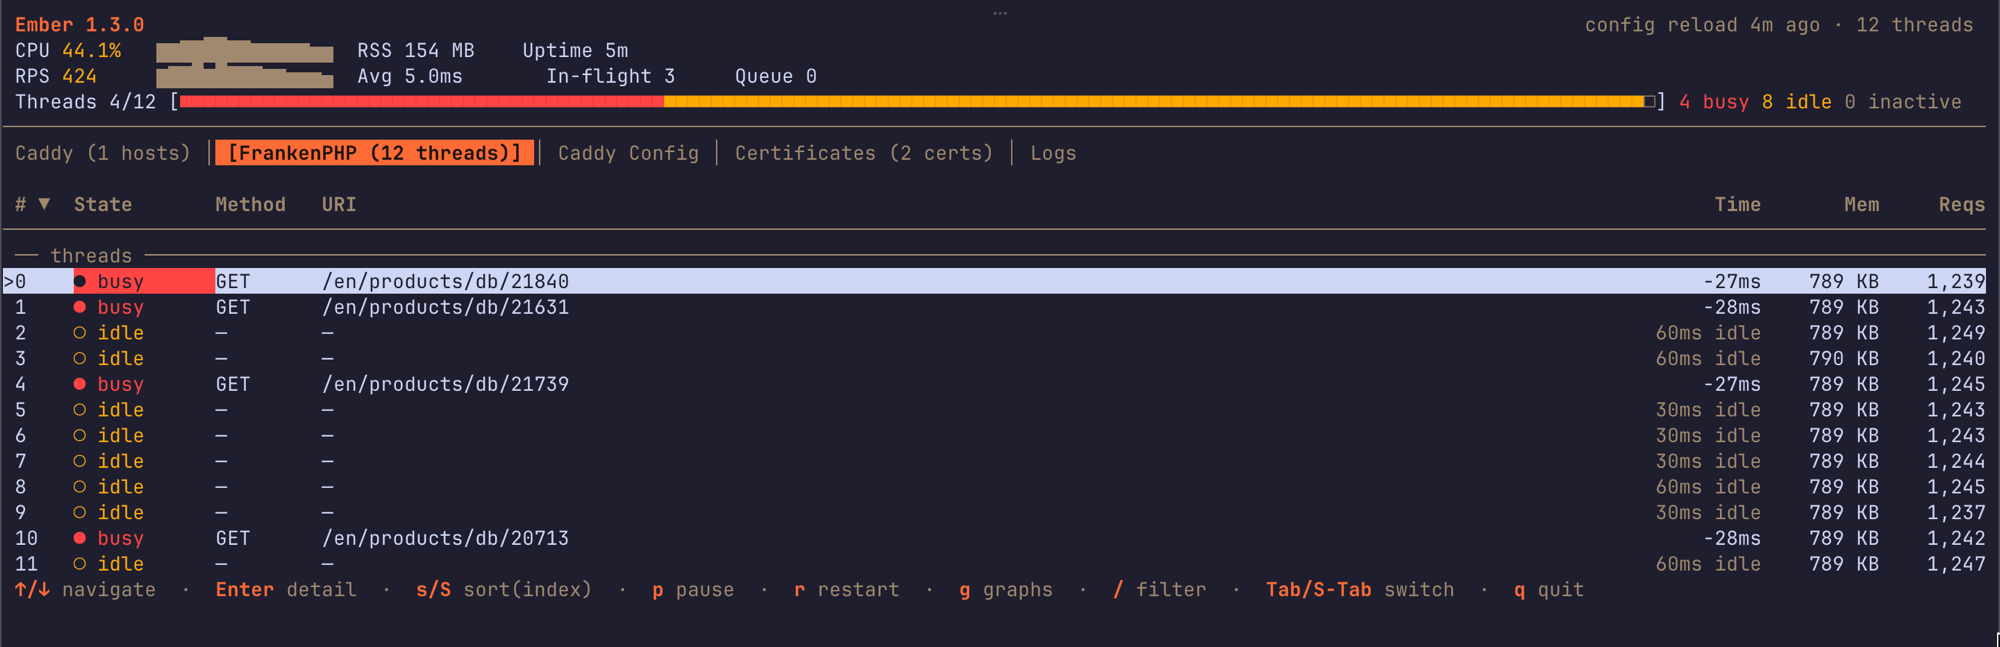
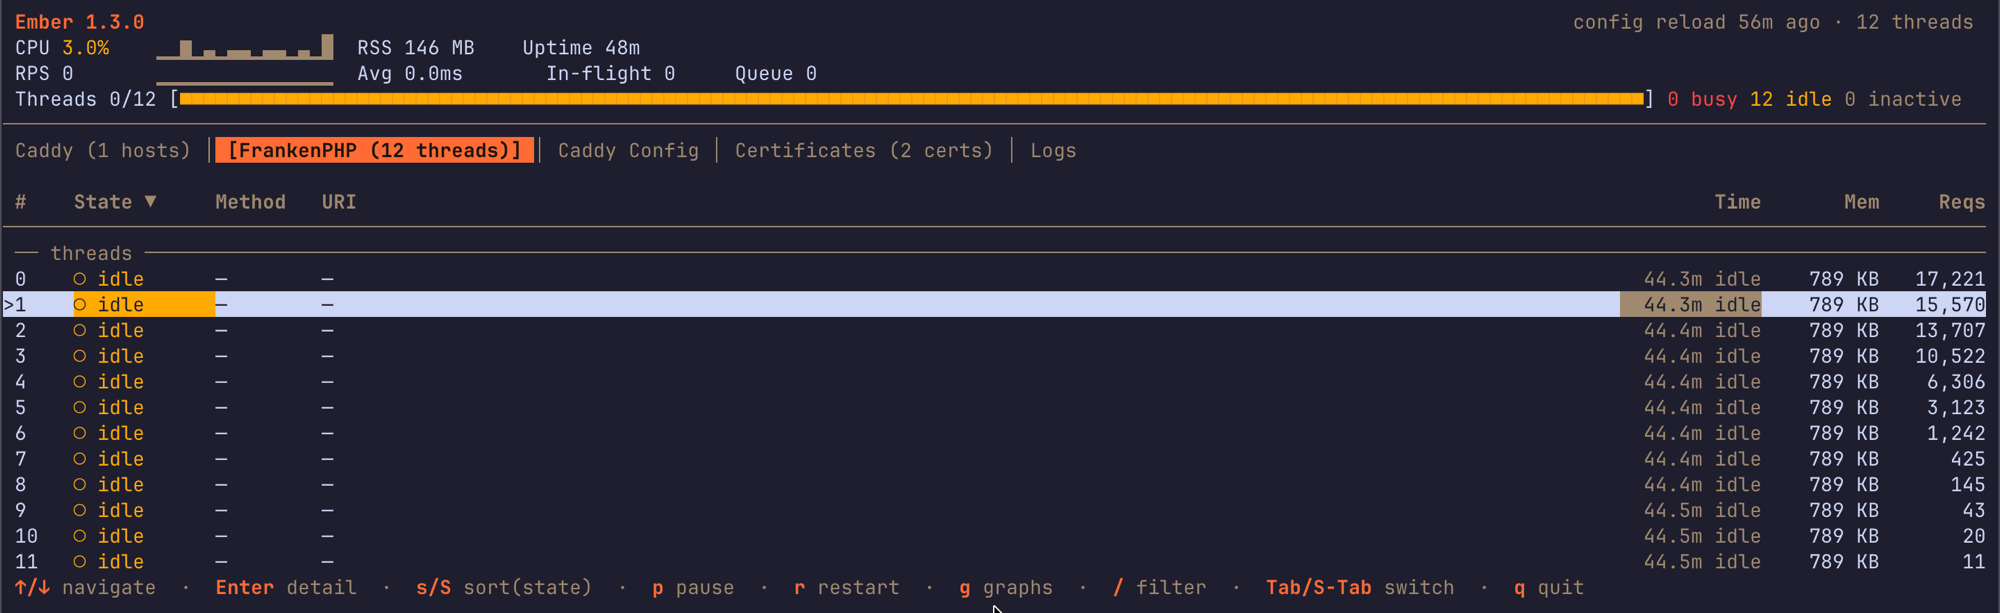
Docs: default demo is classic (12 threads), fix PHP 8.4
- Swap ember-04-threads.png for the 12-thread classic view
- Step 3 text now says classic/12 threads (matches the 'make ember' default);
  worker/20 threads is the alternative
- README: PHP 8.4, not 8.5

diff --git a/ember.md b/ember.md
@@ -92,11 +92,11 @@ In your **first terminal**, run:
 make ember
 ```
 
-That opens a live dashboard watching the **FrankenPHP worker** (`http://localhost:8081`, the fastest mode,
-20 threads). Right now the kitchen is quiet, so most numbers are small (you'll see `RPS 0` - that's normal
-until we send traffic in Step 4).
+That opens a live dashboard watching **FrankenPHP classic** (`http://localhost:8080`, the steady server we
+load in this demo, 12 threads). Right now the kitchen is quiet, so most numbers are small (you'll see
+`RPS 0` - that's normal until we send traffic in Step 4).
 
-> Want to watch **classic** instead (12 threads)? Run `make ember EMBER_ADDR=http://localhost:2019`.
+> Want to watch the **worker** instead (20 threads, the fastest mode)? Run `make ember EMBER_ADDR=http://localhost:2020`.
 
 ![Step 3 - the Ember dashboard opens, quiet (RPS 0)](docs/images/ember-03-open.png)
 > 📸 *Capture: the dashboard right after it opens. Save as `docs/images/ember-03-open.png`.*
@@ -116,8 +116,8 @@ until we send traffic in Step 4).
 | **`?`**           | Show the help screen with every key.                              |
 | **`q`**           | **Quit** Ember.                                                    |
 
-👉 **Do this now:** press **`Tab`** once to land on the **`FrankenPHP (20 threads)`** tab. That's our demo
-view - it lists all 20 cooks. (If you switched to classic it'll say 12 threads - same idea.) The first
+👉 **Do this now:** press **`Tab`** once to land on the **`FrankenPHP (12 threads)`** tab. That's our demo
+view - it lists all 12 cooks. (If you point Ember at the worker it'll say 20 threads - same idea.) The first
 **`[Caddy]`** tab's "Host" list stays empty in this demo because our server has no website name - that's
 expected, just ignore it.
 

diff --git a/README.md b/README.md
@@ -20,7 +20,7 @@ the difference live. Everything runs in Docker Compose and is driven by the Make
 - **🔥 [Ember](ember.md)** - a one-command live demo that ramps traffic up and down while you watch the
   numbers move.
 
-> Runtimes run **PHP 8.5** (FrankenPHP `1.12.4`). New here? **Start with [ember.md](ember.md).**
+> Runtimes run **PHP 8.4** (FrankenPHP `1.12.4`). New here? **Start with [ember.md](ember.md).**
 
 ## Web Interfaces & Dashboards
 
